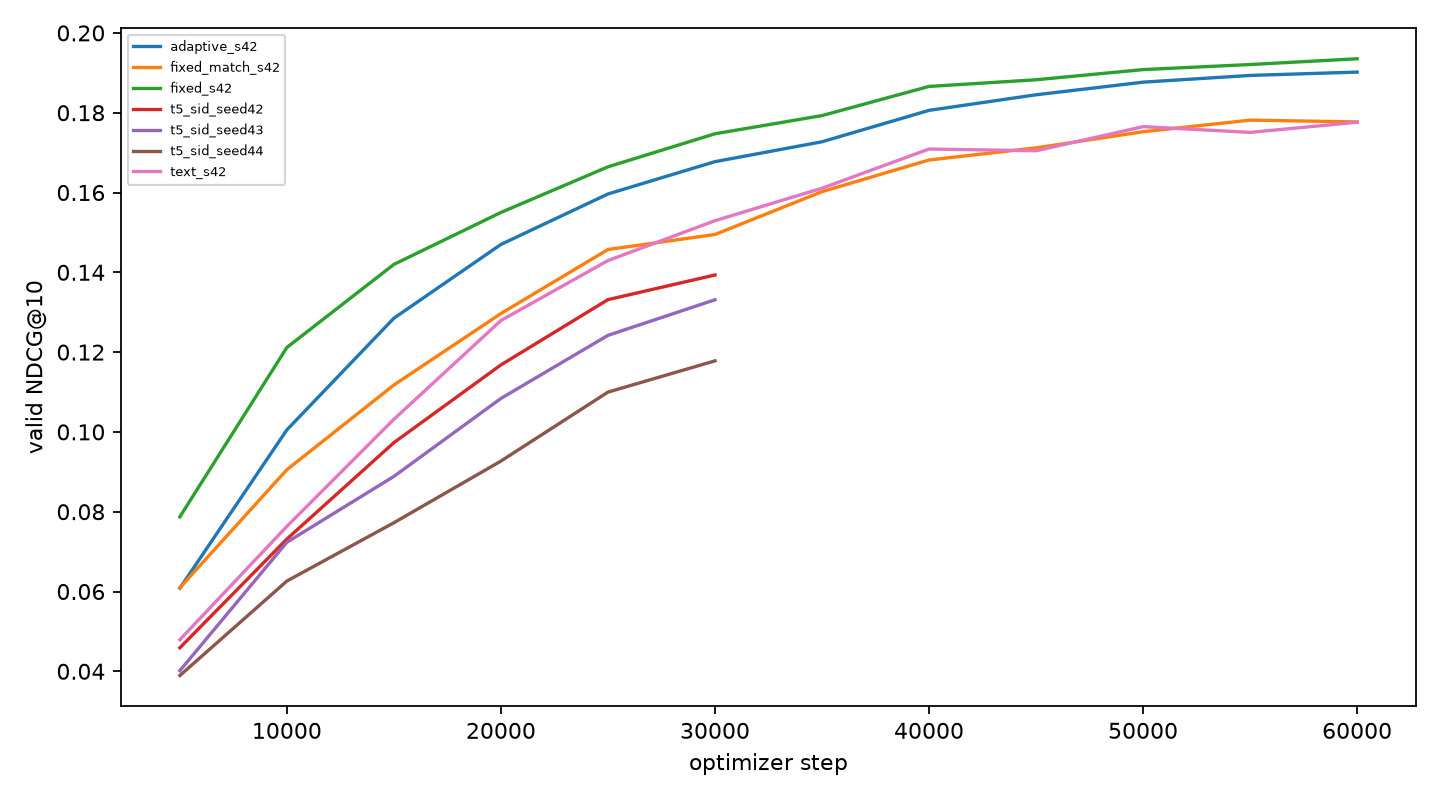
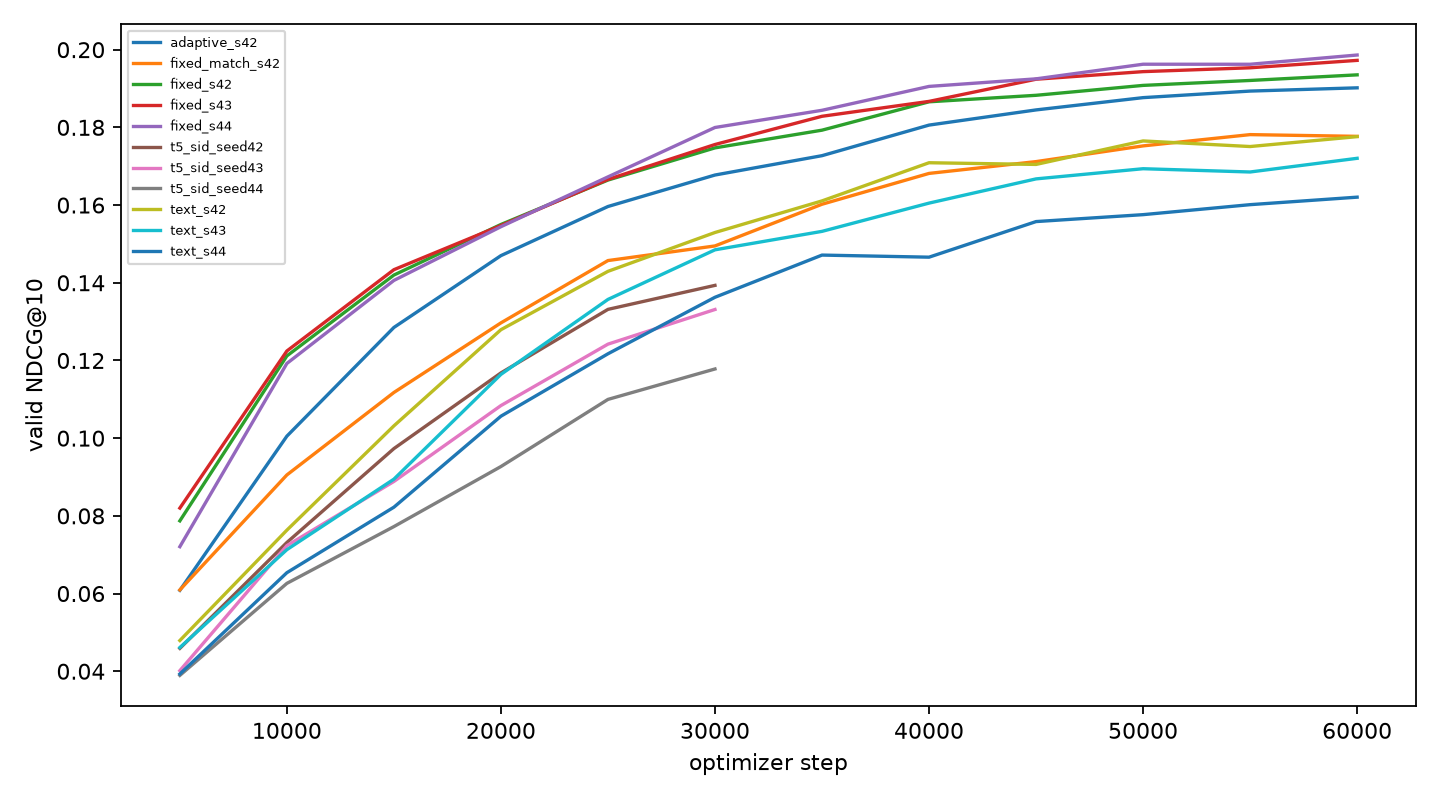
exp: update validation curves for all completed formal runs

diff --git a/results/week7-improvement/01-diagnostics/README.md b/results/week7-improvement/01-diagnostics/README.md
@@ -2,7 +2,7 @@
 
 | 文件 | 内容 |
 |---|---|
-| [training_curves.png](training_curves.png) / [CSV](training_curves.csv) | 旧三种子与本周四组 seed42 的验证曲线，共 7 个运行、66 个验证点 |
+| [training_curves.png](training_curves.png) / [CSV](training_curves.csv) | 旧三种子、本周四组 seed42，以及 Text / Fixed 的 seed43、44，共 11 个运行、114 个验证点 |
 | [search_diagnosis.md](search_diagnosis.md) | 固定 512 名验证用户上的 Beam 与全目录精确打分对比 |
 | `historical_30k_s42_valid_*_n512.json` | 五种搜索方法的完整指标、用户列表与 checkpoint 哈希 |
 | `historical_30k_s42_valid_*_n512_samples.json` | 各方法前 20 名用户的推荐示例 |
